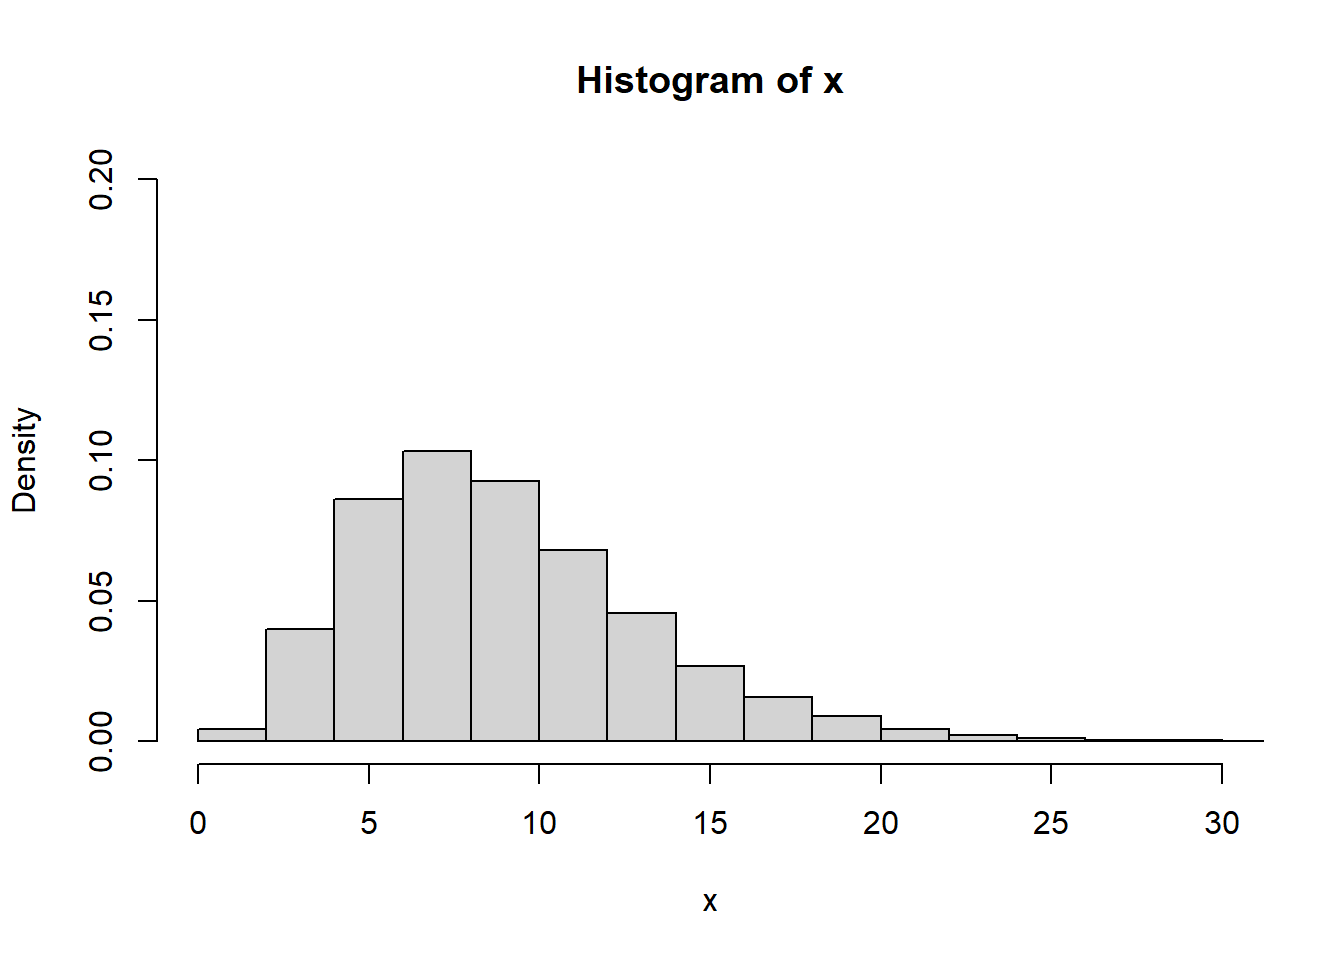
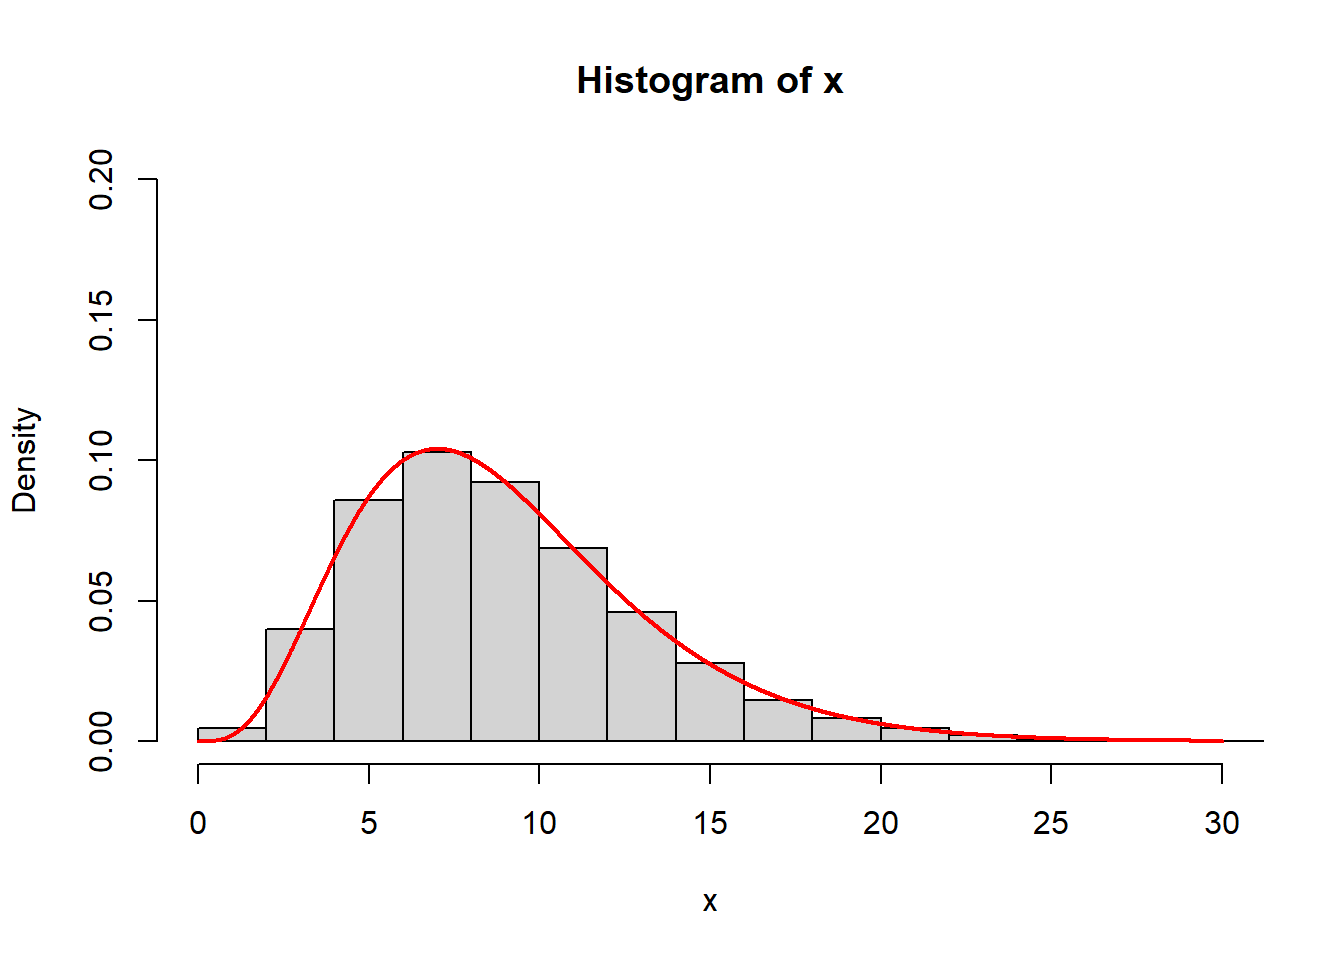
heell

diff --git a/tlc.html b/tlc.html
@@ -13,7 +13,7 @@
 
 <title>Distribuciones muestrales y el teorema de límite central</title>
 
-<script src="site_libs/header-attrs-2.14/header-attrs.js"></script>
+<script src="site_libs/header-attrs-2.30/header-attrs.js"></script>
 <script src="site_libs/jquery-3.6.0/jquery-3.6.0.min.js"></script>
 <meta name="viewport" content="width=device-width, initial-scale=1" />
 <link href="site_libs/bootstrap-3.3.5/css/flatly.min.css" rel="stylesheet" />
@@ -29,14 +29,14 @@
        h6 {font-size: 12px;}
        code {color: inherit; background-color: rgba(0, 0, 0, 0.04);}
        pre:not([class]) { background-color: white }</style>
-<script src="site_libs/jqueryui-1.11.4/jquery-ui.min.js"></script>
+<script src="site_libs/jqueryui-1.13.2/jquery-ui.min.js"></script>
 <link href="site_libs/tocify-1.9.1/jquery.tocify.css" rel="stylesheet" />
 <script src="site_libs/tocify-1.9.1/jquery.tocify.js"></script>
 <script src="site_libs/navigation-1.1/tabsets.js"></script>
 <link href="site_libs/highlightjs-9.12.0/textmate.css" rel="stylesheet" />
 <script src="site_libs/highlightjs-9.12.0/highlight.js"></script>
-<link href="site_libs/font-awesome-5.1.0/css/all.css" rel="stylesheet" />
-<link href="site_libs/font-awesome-5.1.0/css/v4-shims.css" rel="stylesheet" />
+<link href="site_libs/font-awesome-6.5.2/css/all.min.css" rel="stylesheet" />
+<link href="site_libs/font-awesome-6.5.2/css/v4-shims.min.css" rel="stylesheet" />
 <link href="site_libs/ionicons-2.0.1/css/ionicons.min.css" rel="stylesheet" />
 <link rel="icon" type="image/png" href="images/favicon.png" />
 
@@ -162,11 +162,15 @@ $(document).ready(function () {
     href = "index.html";
   var menuAnchor = $('a[href="' + href + '"]');
 
-  // mark it active
-  menuAnchor.tab('show');
-
-  // if it's got a parent navbar menu mark it active as well
-  menuAnchor.closest('li.dropdown').addClass('active');
+  // mark the anchor link active (and if it's in a dropdown, also mark that active)
+  var dropdown = menuAnchor.closest('li.dropdown');
+  if (window.bootstrap) { // Bootstrap 4+
+    menuAnchor.addClass('active');
+    dropdown.find('> .dropdown-toggle').addClass('active');
+  } else { // Bootstrap 3
+    menuAnchor.parent().addClass('active');
+    dropdown.addClass('active');
+  }
 
   // Navbar adjustments
   var navHeight = $(".navbar").first().height() + 15;
@@ -195,8 +199,8 @@ $(document).ready(function () {
   border-radius: 4px;
 }
 
-.tabset-dropdown > .nav-tabs > li.active:before {
-  content: "";
+.tabset-dropdown > .nav-tabs > li.active:before, .tabset-dropdown > .nav-tabs.nav-tabs-open:before {
+  content: "\e259";
   font-family: 'Glyphicons Halflings';
   display: inline-block;
   padding: 10px;
@@ -204,16 +208,9 @@ $(document).ready(function () {
 }
 
 .tabset-dropdown > .nav-tabs.nav-tabs-open > li.active:before {
-  content: "&#xe258;";
-  border: none;
-}
-
-.tabset-dropdown > .nav-tabs.nav-tabs-open:before {
-  content: "";
+  content: "\e258";
   font-family: 'Glyphicons Halflings';
-  display: inline-block;
-  padding: 10px;
-  border-right: 1px solid #ddd;
+  border: none;
 }
 
 .tabset-dropdown > .nav-tabs > li.active {
@@ -363,24 +360,10 @@ div.tocify {
   </a>
 </li>
 <li>
-  <a href="pagin2.html">
-    <span class="fa fa-bar-chart-o"></span>
-     
-    Diseño de exp
-  </a>
-</li>
-<li>
-  <a href="pagin3.html">
-    <span class="fa fa-pie-chart"></span>
-     
-    Análisis multivariado
-  </a>
-</li>
-<li>
   <a href="medi.html">
     <span class="fa fa-puzzle-piece"></span>
      
-    Medición
+    Metrología
   </a>
 </li>
 <li>
@@ -575,7 +558,8 @@ Entonces, la probabilidad de que 100 clientes puedan ser atendidos en
 menos de 2 horas es aproximadamente 0.0013. Esta pequeña probabilidad
 indica que es prácticamente imposible atender a 100 clientes en menos de
 2 horas.</p>
-<p><strong>Ejemplo 3</strong> ## Distribución t</p>
+<p><strong>Ejemplo 3</strong></p>
+<p><strong>Distribución t</strong></p>
 <iframe width="280" height="160" src="https://www.youtube.com/embed/wGSutshZDiA?list=PLfX5C7cc6LRIpDDiblGwkJX2k9XG0GU5p" title="Uso de la tabla t-student" frameborder="0" allow="accelerometer; autoplay; clipboard-write; encrypted-media; gyroscope; picture-in-picture; web-share" allowfullscreen>
 </iframe>
 <p>Recordemos que en la distribución t <span
@@ -624,11 +608,8 @@ class="math inline">\(\mu\)</span> con probabilidad de 0.95?</p></li>
 </div>
 <div id="distribución-muestral-de-la-varianza" class="section level2">
 <h2>Distribución muestral de la varianza</h2>
-</div>
-<div id="distribución-chi-cuadrado" class="section level2">
-<h2>Distribución Chi cuadrado</h2>
-<iframe width="280" height="160" src="https://www.youtube.com/embed/teJ2of7rtKo" title="Uso de la tabla chi-cuadrada" frameborder="0" allow="accelerometer; autoplay; clipboard-write; encrypted-media; gyroscope; picture-in-picture; web-share" allowfullscreen>
-</iframe>
+<p><strong>Distribución Chi cuadrado</strong>
+<iframe width="280" height="160" src="https://www.youtube.com/embed/teJ2of7rtKo" title="Uso de la tabla chi-cuadrada" frameborder="0" allow="accelerometer; autoplay; clipboard-write; encrypted-media; gyroscope; picture-in-picture; web-share" allowfullscreen></iframe></p>
 <p>Un buen estimador de <span class="math inline">\(\sigma^2\)</span> es
 la varianza muestral <span class="math inline">\(S^2\)</span>, la
 distribución asociada a esta distribución es la chi cuadrado.</p>
@@ -641,11 +622,11 @@ x &lt;- rchisq(50000, df = 5)
 hist(x, 
      freq = FALSE, 
      xlim = c(0,16), 
-     ylim = c(0,0.2))</code></pre>
-<p><img src="tlc_files/figure-html/unnamed-chunk-3-1.png" width="672" /></p>
-<pre class="r"><code>curve(dchisq(x, df = 5), from = 0, to = 15, 
+     ylim = c(0,0.2))
+  
+curve(dchisq(x, df = 5), from = 0, to = 15, 
       n = 5000, col= &#39;red&#39;, lwd=2, add = T)</code></pre>
-<p><img src="tlc_files/figure-html/unnamed-chunk-3-2.png" width="672" /></p>
+<p><img src="tlc_files/figure-html/unnamed-chunk-3-1.png" width="672" /></p>
 <hr />
 <p><strong>Teorema</strong></p>
 <p>Se desea hacer una inferencia acerca de la varianza poblacional
@@ -700,11 +681,11 @@ x &lt;- rchisq(50000, df = 9)
 hist(x, 
      freq = FALSE, 
      xlim = c(0,30), 
-     ylim = c(0,0.2))</code></pre>
-<p><img src="tlc_files/figure-html/unnamed-chunk-4-1.png" width="672" /></p>
-<pre class="r"><code>curve(dchisq(x, df = 9), from = 0, to = 30, 
+     ylim = c(0,0.2))
+  
+curve(dchisq(x, df = 9), from = 0, to = 30, 
       n = 5000, col= &#39;red&#39;, lwd=2, add = T)</code></pre>
-<p><img src="tlc_files/figure-html/unnamed-chunk-4-2.png" width="672" /></p>
+<p><img src="tlc_files/figure-html/unnamed-chunk-4-1.png" width="672" /></p>
 <p><span class="math display">\[16.919=\frac{(n-1)
 b_2}{\sigma^2}\]</span> <span class="math display">\[16.919=\frac{(9)
 b_2}{\sigma^2}\]</span> como <span
@@ -813,9 +794,8 @@ class="section level1">
 class="section level2">
 <h2>Distribución de la diferencia de medias muestrales</h2>
 <p><img src="imagen/difmed.png" width="408" style="display: block; margin: auto;" /></p>
-</div>
-<div id="varianzas-poblacionales-conocidas" class="section level2">
-<h2>1. Varianzas poblacionales conocidas</h2>
+<div id="varianzas-poblacionales-conocidas" class="section level3">
+<h3>1. Varianzas poblacionales conocidas</h3>
 <p><span class="math display">\[(\bar X - \bar Y) \sim N \left (
 (\mu_x-\mu_y), \frac{\sigma^2_x}{n_x}+\frac{\sigma^2_y}{n_y}\right)
 \]</span></p>
@@ -867,8 +847,8 @@ máximo 0.2 rem superior a la media de la muestra B.</p>
 \]</span></p>
 </div>
 <div id="varianzas-poblacionales-desconocidas-pero-iguales"
-class="section level2">
-<h2>2. Varianzas poblacionales desconocidas pero iguales</h2>
+class="section level3">
+<h3>2. Varianzas poblacionales desconocidas pero iguales</h3>
 <p>La condición de igualdad de varianzas debe comprobarse o
 afirmarse.</p>
 <p><span class="math display">\[\sigma^2_x=\sigma^2_y\]</span></p>
@@ -930,10 +910,10 @@ tres unidades superior a la media muestral de B.</p>
 </div>
 <div
 id="varianzas-poblacionales-desconocidas-o-no-con-tamaños-de-muestra-n_130-y-n_230"
-class="section level2">
-<h2>3. Varianzas poblacionales desconocidas o no con tamaños de muestra
+class="section level3">
+<h3>3. Varianzas poblacionales desconocidas o no con tamaños de muestra
 <span class="math inline">\(n_1&gt;30\)</span> y <span
-class="math inline">\(n_2&gt;30\)</span></h2>
+class="math inline">\(n_2&gt;30\)</span></h3>
 <p><span class="math display">\[(\bar X - \bar Y) \sim N \left (
 (\mu_x-\mu_y), \frac{S^2_x}{n_x}+\frac{S^2_y}{n_y}\right) \]</span> El
 estadístico es:</p>
@@ -942,14 +922,15 @@ Y)-(\mu_x-\mu_y)}{\sqrt{\frac{S^2_x}{n_x}+\frac{S^2_y}{n_y}}}
 \longrightarrow N(0,1)\]</span></p>
 </div>
 <div id="varianzas-poblacionales-desconocidas-y-diferentes"
-class="section level2">
-<h2>4. Varianzas poblacionales desconocidas y diferentes</h2>
+class="section level3">
+<h3>4. Varianzas poblacionales desconocidas y diferentes</h3>
 <p>El estadístico es:</p>
 <p><span class="math display">\[T=\frac{(\bar X - \bar
 Y)-(\mu_x-\mu_y)}{\sqrt{\frac{S^2_x}{n_x}+\frac{S^2_y}{n_y}}}
 \longrightarrow t_g\]</span> los grados de libertad están dados por:</p>
 <p><span
 class="math display">\[g=\frac{\left(\frac{s_1^2}{n_1}+\frac{s_2^2}{n_2}\right)^2}{\frac{\left(\frac{s_1^2}{n_1}\right)^2}{n_1+1}+\frac{\left(\frac{s_2^2}{n_2}\right)^2}{n_2+1}}-2\]</span></p>
+</div>
 </div>
 <div id="distribución-de-la-diferencia-de-proporciones-muestrales"
 class="section level2">

diff --git a/posterestdesc.html b/posterestdesc.html
@@ -434,11 +434,11 @@ href="https://www.agronet.gov.co/estadistica/Paginas/home.aspx">Agronet</a></p><
 rúbrica, donde cada item vale 3 puntos:</p>
 <table>
 <colgroup>
-<col width="20%" />
-<col width="17%" />
-<col width="30%" />
-<col width="16%" />
-<col width="15%" />
+<col width="19%" />
+<col width="24%" />
+<col width="27%" />
+<col width="14%" />
+<col width="13%" />
 </colgroup>
 <thead>
 <tr class="header">
@@ -550,50 +550,50 @@ no está en youtube</td>
 </tr>
 <tr class="even">
 <td align="center"><strong>Intervalos</strong></td>
-<td align="center">10.</td>
-<td align="center">Para la media de una muestra</td>
+<td align="center">10.Para la media</td>
+<td align="center"><strong>Debe contener</strong></td>
 <td align="center"></td>
 <td align="center"></td>
 </tr>
 <tr class="odd">
 <td align="center"><strong>de confianza (IC)</strong></td>
-<td align="center">11.</td>
-<td align="center">Para la varianza de una muestra</td>
+<td align="center">11.Para la varianza</td>
+<td align="center">Enunciado y respuesta</td>
 <td align="center"></td>
 <td align="center"></td>
 </tr>
 <tr class="even">
 <td align="center"><strong>Para una muestra</strong></td>
-<td align="center">12.</td>
-<td align="center">Para la proporción de una muestra</td>
+<td align="center">12.Para la proporción</td>
+<td align="center">procedimiento con editor de ecuaciones</td>
 <td align="center"></td>
 <td align="center"></td>
 </tr>
 <tr class="odd">
 <td align="center">___________</td>
 <td align="center">________</td>
-<td align="center">________________________</td>
-<td align="center">_______________________</td>
+<td align="center">___________________</td>
+<td align="center">_________________</td>
 <td align="center">______________</td>
 </tr>
 <tr class="even">
 <td align="center"></td>
-<td align="center">13.</td>
-<td align="center">Para la diferencia de medias</td>
+<td align="center">13.Para la diferencia de medias</td>
+<td align="center"><strong>Debe contener</strong></td>
 <td align="center"></td>
 <td align="center"></td>
 </tr>
 <tr class="odd">
 <td align="center"><strong>IC para dos muestras</strong></td>
-<td align="center">14.</td>
-<td align="center">Para la razón de varianzas</td>
+<td align="center">14.Para la razón de varianzas</td>
+<td align="center">Enunciado y respuesta</td>
 <td align="center"></td>
 <td align="center"></td>
 </tr>
 <tr class="even">
-<td align="center">Usa editor de ecuaciones word</td>
-<td align="center">15.</td>
-<td align="center">Para la diferencia de proporciones</td>
+<td align="center"></td>
+<td align="center">15.Para la diferencia de proporciones</td>
+<td align="center">procedimiento con editor de ecuaciones</td>
 <td align="center"></td>
 <td align="center"></td>
 </tr>
@@ -606,15 +606,15 @@ no está en youtube</td>
 </tr>
 <tr class="even">
 <td align="center"><strong>Pruebas de hipótesis (PH)</strong></td>
-<td align="center">16.</td>
-<td align="center">Para la proporción</td>
+<td align="center">16.Para la proporción</td>
+<td align="center"><strong>Debe contener</strong></td>
 <td align="center"></td>
 <td align="center"></td>
 </tr>
 <tr class="odd">
 <td align="center">Usa editor de ecuaciones word</td>
-<td align="center">17.</td>
-<td align="center">Para la diferencia de proporciones</td>
+<td align="center">17.Para la diferencia de proporciones</td>
+<td align="center">Paso a paso visto en clase</td>
 <td align="center"></td>
 <td align="center"></td>
 </tr>
